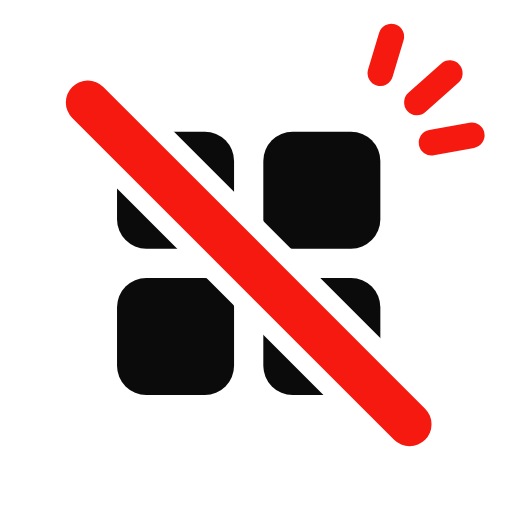
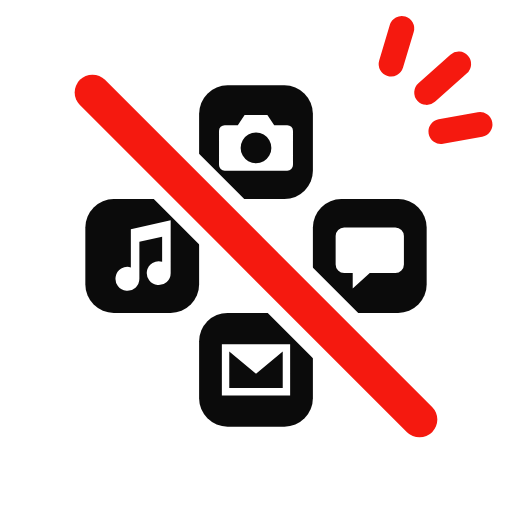
アプリ一掃: アイコンとロゴの四角 4 つを、カメラ・音楽・チャット・メールのアプリの絵柄に（ひし形に並べ、斜線があいだを通る）
Claude-Session: https://claude.ai/code/session_01WQewJuRn2mGB1EbdpVRuwB

diff --git a/sweep-android/store/render-graphics.js b/sweep-android/store/render-graphics.js
@@ -11,16 +11,22 @@ const face = (file) => fontDir && fs.existsSync(`${fontDir}/${file}`)
 const fonts = `<style>${face('noto-sans-jp-japanese-900-normal.woff2')}${face('noto-sans-jp-latin-900-normal.woff2')}
   body{margin:0;font-family:Logo,'Noto Sans JP','IPAPGothic',sans-serif;font-weight:900}</style>`;
 
-// アプリのタイル 4 つに赤い斜線（通知パージのベル＋斜線と同じ考え方）。ink はタイルの色、gap は斜線のふちの色
-const mark = (size, ink, gap, vb = '21 21 66 66') => `
+// アプリのアイコン 4 つ（カメラ・音楽・チャット・メール）をひし形に並べ、あいだを赤い斜線が通る。
+// 通知パージのベル＋斜線と同じ考え方。ink はタイルの色、gap は絵柄と斜線のふちの色（白地なら白）
+const TILE = 'M5,0h10a5,5 0 0 1 5,5v10a5,5 0 0 1 -5,5h-10a5,5 0 0 1 -5,-5v-10a5,5 0 0 1 5,-5z';
+const GLYPHS = {
+  camera: 'M4.500,7h2.300l1.200,-1.800h4l1.200,1.800h2.300a1,1 0 0 1 1,1v6a1,1 0 0 1 -1,1h-11a1,1 0 0 1 -1,-1v-6a1,1 0 0 1 1,-1z M10,8.300a2.700,2.700 0 1 0 0.001,0z',
+  music: 'M8,5.300l7,-1.600v9.300a2.100,2.100 0 1 1 -1.500,-2v-4.400l-4,0.900v6.500a2.100,2.100 0 1 1 -1.500,-2z',
+  chat: 'M5.500,5h9a1.500,1.500 0 0 1 1.500,1.500v5a1.500,1.500 0 0 1 -1.500,1.500h-4.500l-3,2.700v-2.700h-1.500a1.500,1.500 0 0 1 -1.500,-1.500v-5a1.500,1.500 0 0 1 1.500,-1.500z',
+  mail: 'M4,5.500h12v9h-12z M5.300,6.800v6.400h9.400v-6.400l-4.700,3.900z',
+};
+const tile = (x, y, glyph, ink, gap) => `<g transform="translate(${x} ${y}) scale(0.8)"><path d="${TILE}" fill="${ink}"/><path d="${GLYPHS[glyph]}" fill="${gap}" fill-rule="evenodd"/></g>`;
+const mark = (size, ink, gap, vb = '21 25 66 66') => `
 <svg width="${size}" height="${size}" viewBox="${vb}" xmlns="http://www.w3.org/2000/svg">
-  <g fill="${ink}">
-    <rect x="35" y="39" width="16" height="16" rx="4"/><rect x="55" y="39" width="16" height="16" rx="4"/>
-    <rect x="35" y="59" width="16" height="16" rx="4"/><rect x="55" y="59" width="16" height="16" rx="4"/>
-  </g>
-  <path d="M31,35 L75,79" stroke="${gap}" stroke-width="11" stroke-linecap="round"/>
-  <path d="M31,35 L75,79" stroke="${RED}" stroke-width="6" stroke-linecap="round"/>
-  <path d="M71,31 L72.500,26 M76,35 L80.500,31 M78,40.500 L83.500,39.500" stroke="${RED}" stroke-width="3.500" stroke-linecap="round" fill="none"/>
+  ${tile(46, 34, 'camera', ink, gap)}${tile(30, 50, 'music', ink, gap)}${tile(62, 50, 'chat', ink, gap)}${tile(46, 66, 'mail', ink, gap)}
+  <path d="M31,35 L77,81" stroke="${gap}" stroke-width="9" stroke-linecap="round"/>
+  <path d="M31,35 L77,81" stroke="${RED}" stroke-width="5" stroke-linecap="round"/>
+  <path d="M73,31 L74.500,26 M78,35 L82.500,31 M80,40.500 L85.500,39.500" stroke="${RED}" stroke-width="3.500" stroke-linecap="round" fill="none"/>
 </svg>`;
 
 const wordmark = (ink, px) => `
@@ -33,7 +39,7 @@ const wordmark = (ink, px) => `
 const logo = (ink, gap) => `<html>${fonts}<body style="background:transparent">
   <div id="x" style="display:inline-flex;align-items:center;gap:6px;padding:8px 20px 8px 4px">${mark(300, ink, gap)}${wordmark(ink, 190)}</div></body></html>`;
 const icon = `<html><body style="margin:0"><div id="x" style="width:512px;height:512px;background:#fff;display:flex;align-items:center;justify-content:center">
-  ${mark(512, BLACK, '#fff', '19 21 70 70')}</div></body></html>`;
+  ${mark(512, BLACK, '#fff', '18 22 72 72')}</div></body></html>`;
 const feature = `<html>${fonts}<body><div id="x" style="width:1024px;height:500px;background:#fff;display:flex;flex-direction:column;align-items:center;justify-content:center;gap:26px">
   <div style="display:flex;align-items:center;gap:4px">${mark(220, BLACK, '#fff')}${wordmark(BLACK, 128)}<div style="width:30px"></div></div>
   <div style="font-size:44px;color:${BLACK};letter-spacing:3px">要らんアプリ<span style="color:${RED}">まとめて一掃</span></div>
